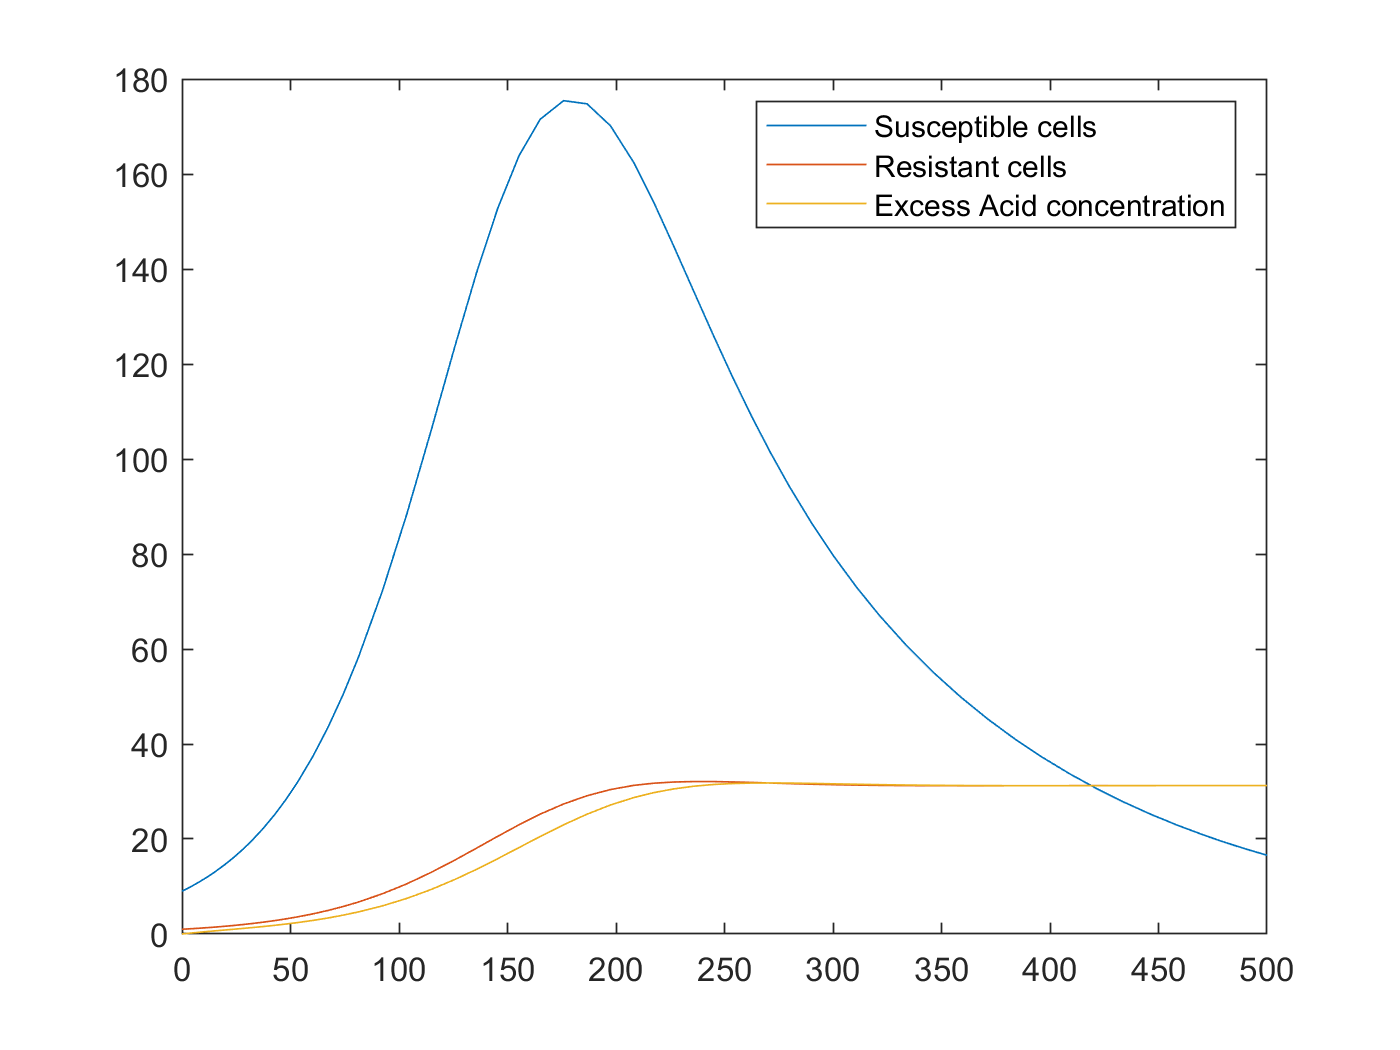
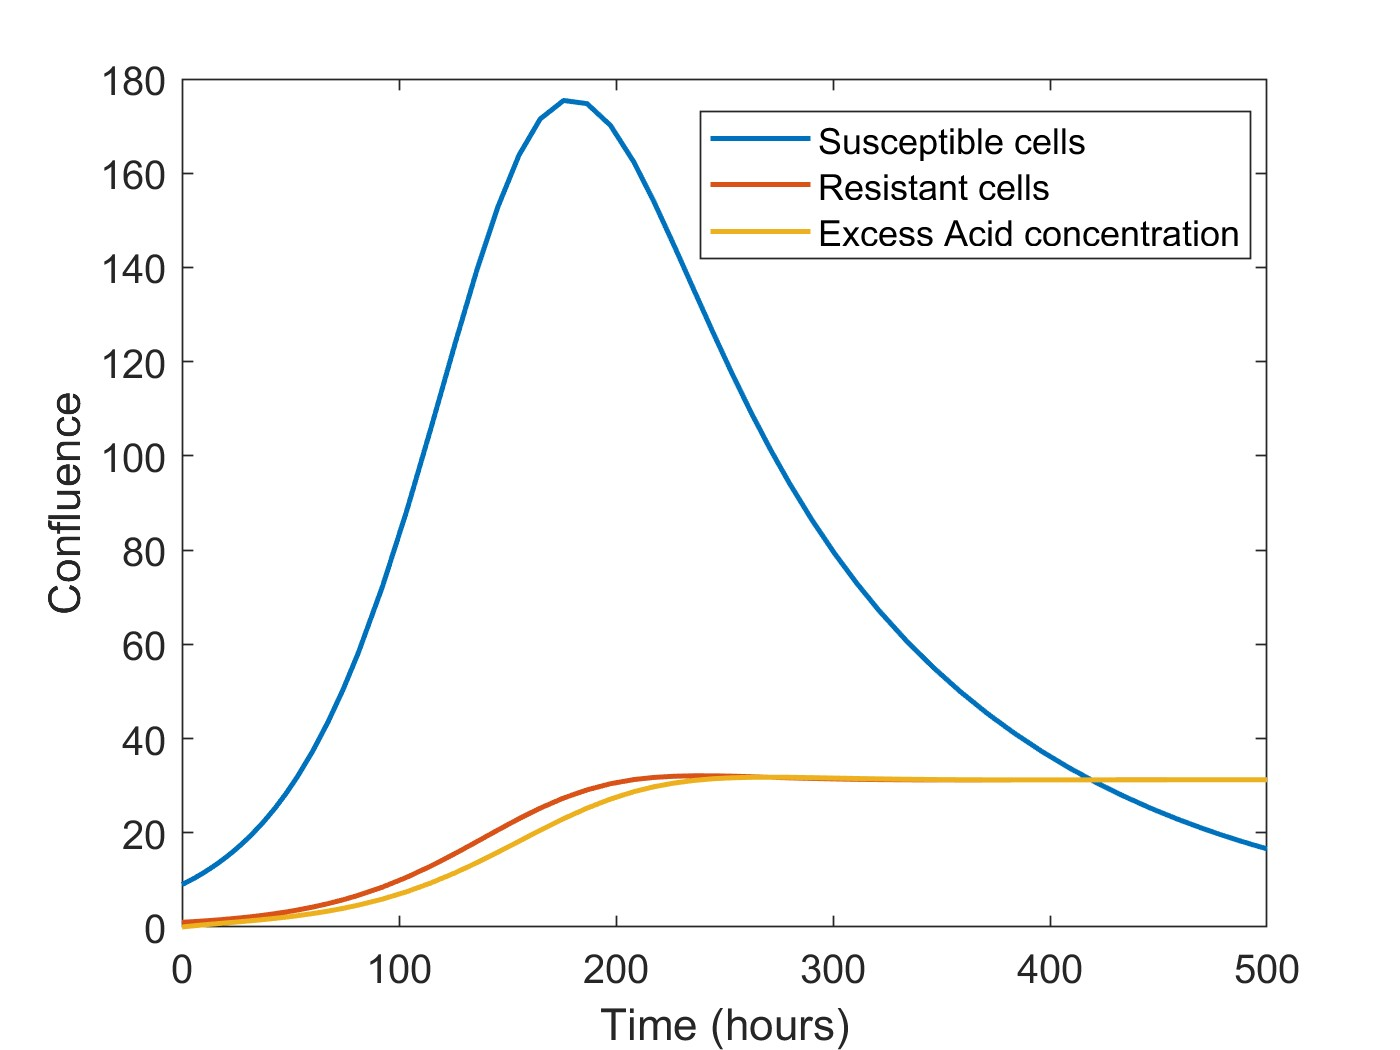
Better visualisations added

diff --git a/Global_bad/master_runner.m b/Global_bad/master_runner.m
@@ -25,7 +25,8 @@ mono_culture_green = mono_culture(14:26,1);
 if drug_eqn == 1
     x0 = [100, 10, 1, 100];
 else
-    x0 = [9,1, 0];
+    x0 = [7,5.5, 0];
+    %x0 = [9,1,0];
 end
 
 
@@ -40,16 +41,25 @@ tspan = [tmin tmax];
 [t,x] = ode45(@(t,x) cell_drug(t, x, drug_present, res_drug_death, drug_eqn), tspan, x0);
 
 figure(1)
-plot(t,x(:,1), t,x(:,2), t,x(:,3))
-legend('Susceptible cells', 'Resistant cells', 'Excess Acid concentration', 'Location','best')
+plot(t,x(:,1),LineWidth=1.5)
+hold on
+plot(t,x(:,2),LineWidth=1.5)
+plot(t,x(:,3),LineWidth=1.5)
+hold off
+fontsize(12,"points")
+xlabel('Time (hours)');
+ylabel('Confluence');
 
-%hold on 
-%plot(time, co_culture_green,'g')
-%plot(time, co_culture_red, 'r')
+
+hold on 
+%plot(time, co_culture_green,'g',Marker='x',LineWidth=1.25,LineStyle=':')
+%plot(time, co_culture_red, 'r',Marker='x',LineWidth=1.25,LineStyle=':')
+legend('Susceptible cells', 'Resistant cells', 'Excess Acid concentration', ...
+    'Experimental Susceptible', 'Experimental Resistant', 'Location','best')
 
 %plot(time, mono_culture_green,'g')
 %plot(time, mono_culture_red, 'r')
-%hold off
+hold off
 
 
 %store_S = zeros(61,5);

diff --git a/Global_bad/init_params.m b/Global_bad/init_params.m
@@ -5,11 +5,15 @@ no_params = 8;
 
 param_out = zeros(no_params,1); 
 
-r1 = 0.025;
+%multiple = 3.5;
+multiple = 1;
+
+r1 = multiple*0.025;
 param_out(1) = r1;
 
 d1 = 0;
-drug_effect = 0.00139;
+drug_effect = multiple*0.00139;
+%drug_effect = 0.0005;
 
 if drug_present == 1
     d1 = d1 + drug_effect;
